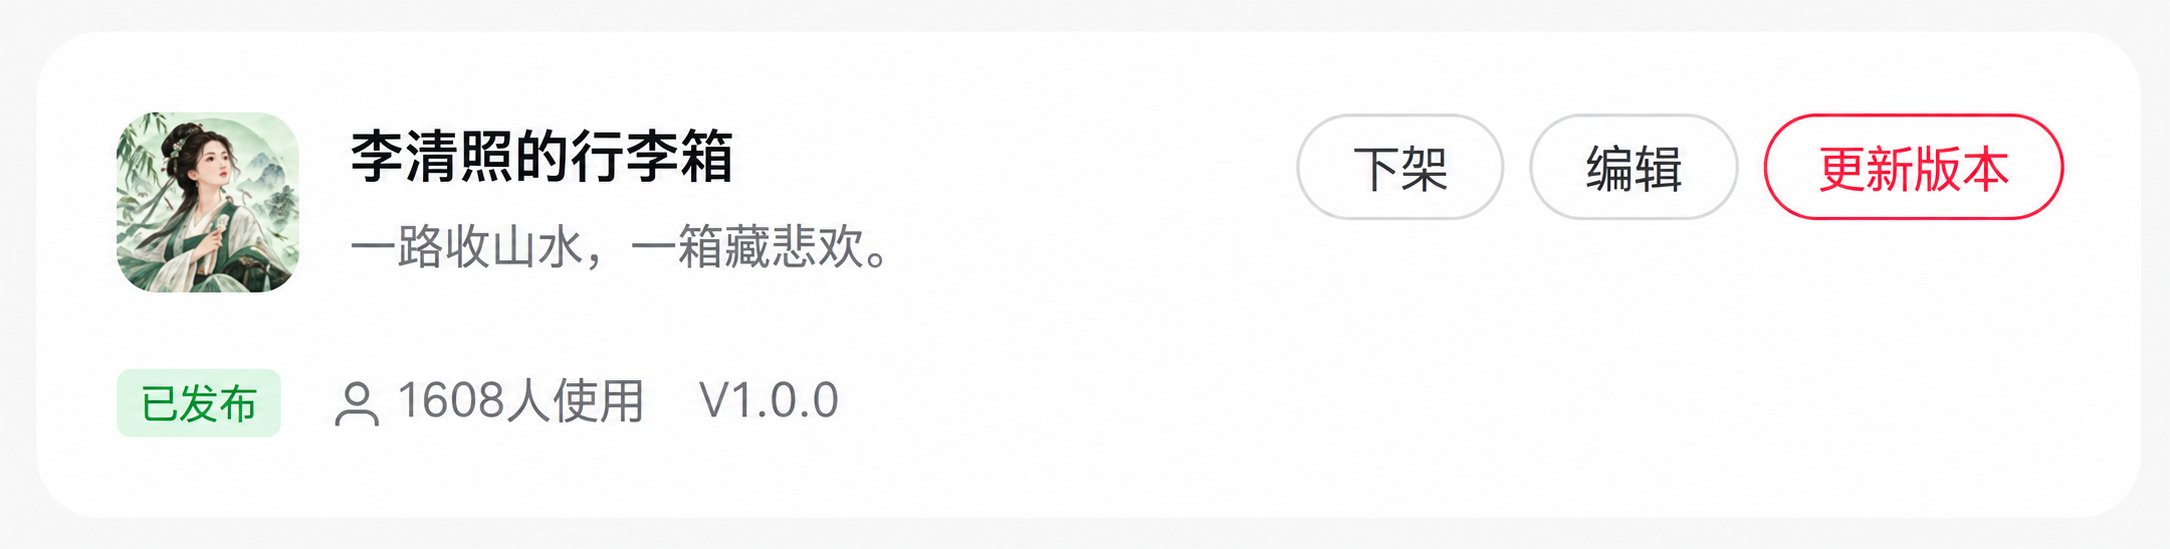
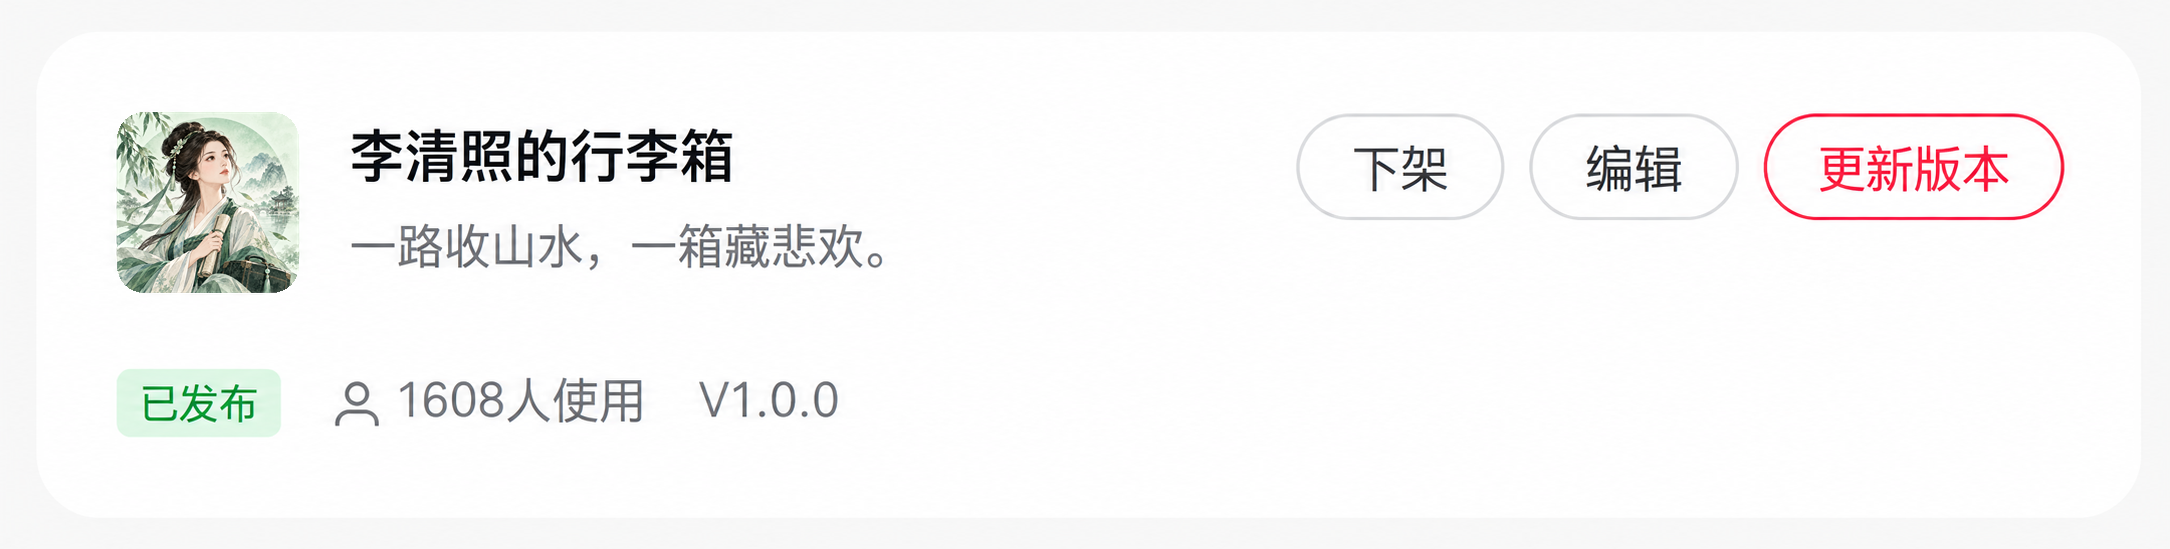
修正小红书数据图产品图标

Changed region(s): [[0.0309, 0.1858, 0.1544, 0.5574]]

diff --git a/index.html b/index.html
@@ -120,8 +120,8 @@
             </ul>
             <h4 class="content-label data-label">平台数据</h4>
             <div class="platform-data-stack">
-              <button class="mini-product-proof clickable-proof" type="button" aria-label="查看李清照的行李箱平台使用数据大图"><img src="./assets/xhs-usage-liqingzhao-1608-hd.png" data-full="./assets/xhs-usage-liqingzhao-1608-hd.png" width="2170" height="549" alt="李清照的行李箱使用数据，1608人使用" loading="lazy" decoding="async"></button>
-              <button class="mini-product-proof clickable-proof" type="button" aria-label="查看三金五金自由配平台使用数据大图"><img src="./assets/xhs-usage-sanjin-1013-hd.png" data-full="./assets/xhs-usage-sanjin-1013-hd.png" width="2170" height="535" alt="三金五金自由配使用数据，1013人使用" loading="lazy" decoding="async"></button>
+              <button class="mini-product-proof clickable-proof" type="button" aria-label="查看李清照的行李箱平台使用数据大图"><img src="./assets/xhs-usage-liqingzhao-1608-hd.png?v=20260929-02" data-full="./assets/xhs-usage-liqingzhao-1608-hd.png?v=20260929-02" width="2170" height="549" alt="李清照的行李箱使用数据，1608人使用" loading="lazy" decoding="async"></button>
+              <button class="mini-product-proof clickable-proof" type="button" aria-label="查看三金五金自由配平台使用数据大图"><img src="./assets/xhs-usage-sanjin-1013-hd.png?v=20260929-02" data-full="./assets/xhs-usage-sanjin-1013-hd.png?v=20260929-02" width="2170" height="535" alt="三金五金自由配使用数据，1013人使用" loading="lazy" decoding="async"></button>
             </div>
           </div>
         </article>
@@ -198,7 +198,7 @@
         <h2 id="proof-lightbox-title">平台使用数据</h2>
         <button class="proof-lightbox-close" type="button" aria-label="关闭大图">关闭 ✕</button>
       </div>
-      <div class="proof-lightbox-body"><img id="proof-lightbox-image" src="./assets/xhs-usage-liqingzhao-1608-hd.png" width="2170" height="549" alt=""></div>
+      <div class="proof-lightbox-body"><img id="proof-lightbox-image" src="./assets/xhs-usage-liqingzhao-1608-hd.png?v=20260929-02" width="2170" height="549" alt=""></div>
     </div>
   </dialog>
 </body>
